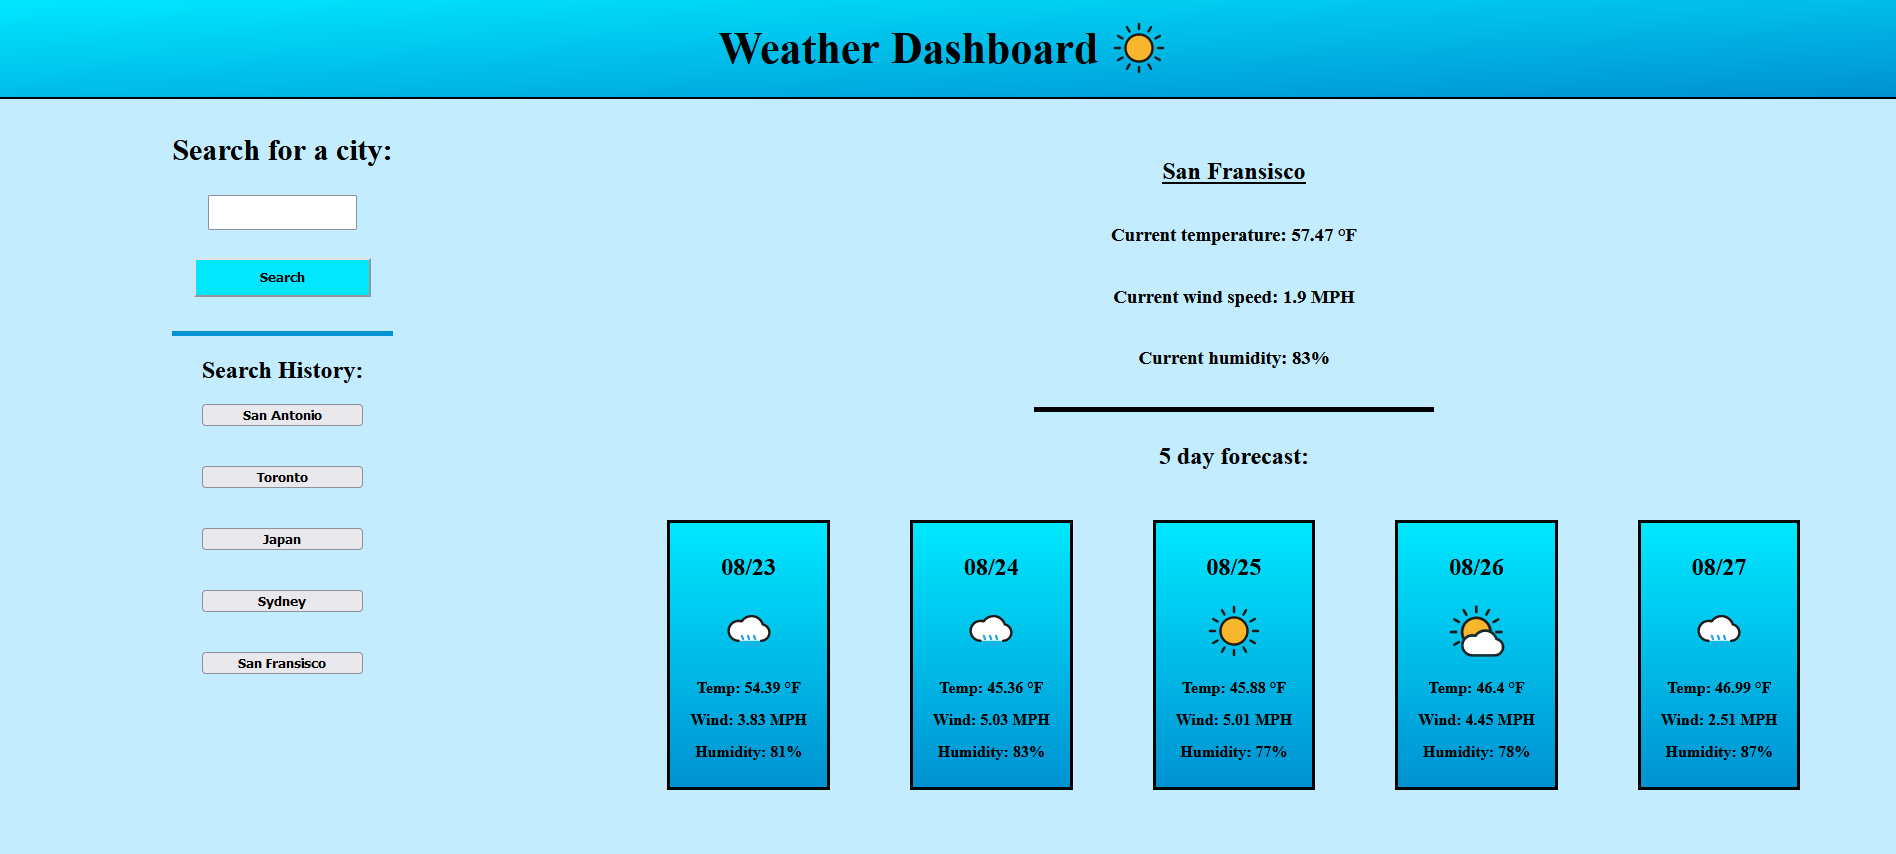
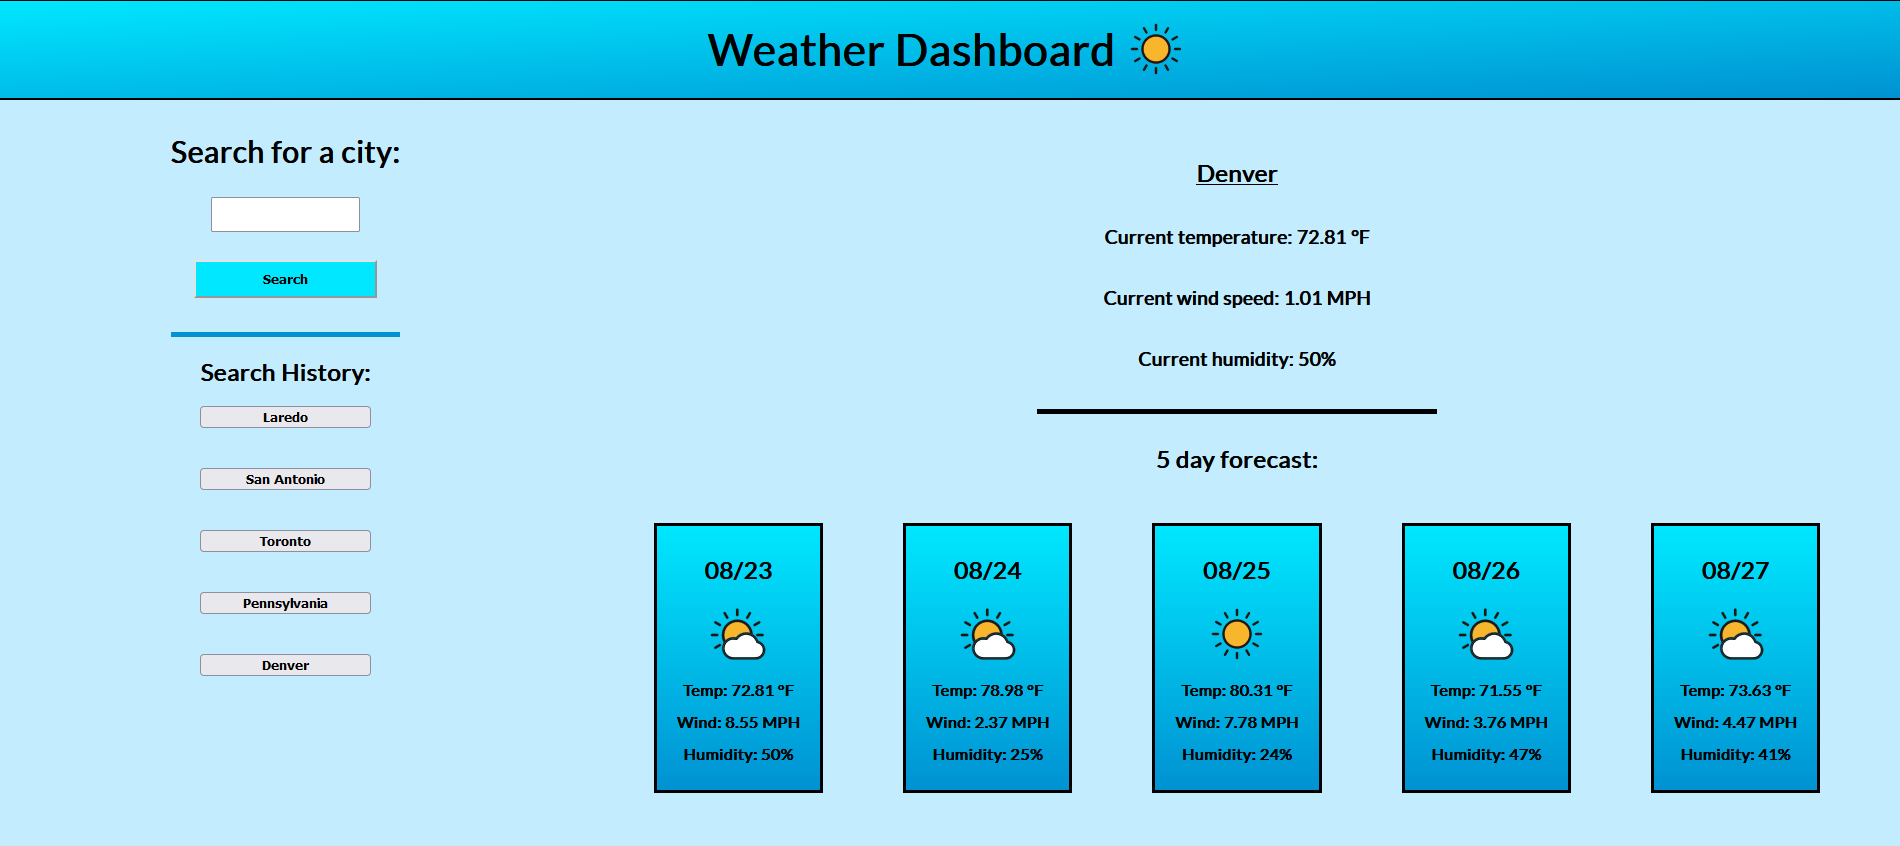
changed styling for smaller screens

diff --git a/assets/css/style.css b/assets/css/style.css
@@ -126,3 +126,45 @@ article {
     line-height: 2;
     font-weight: bold;
 }
+
+/* Changes styling for smaller screens */
+
+@media screen and (max-width: 1200px) {
+    main {
+        flex-direction: column;
+        align-items: center;
+    }
+
+    header {
+        text-align: center;
+    }
+
+    aside {
+        height: 100%;
+    }
+
+    article {
+        width: 100%;
+    }
+
+    .search-div {
+        height: 200px;
+        text-align: center;
+    }
+
+    .current-forecast {
+        line-height: 2;
+        padding-bottom: 20px;
+        text-align: center;
+    }
+
+    .future-forecast {
+        flex-direction: column;
+        align-items: center;
+    }
+
+    .forecast-day {
+        margin-bottom: 40px;
+        width: 100%;
+    }
+}
